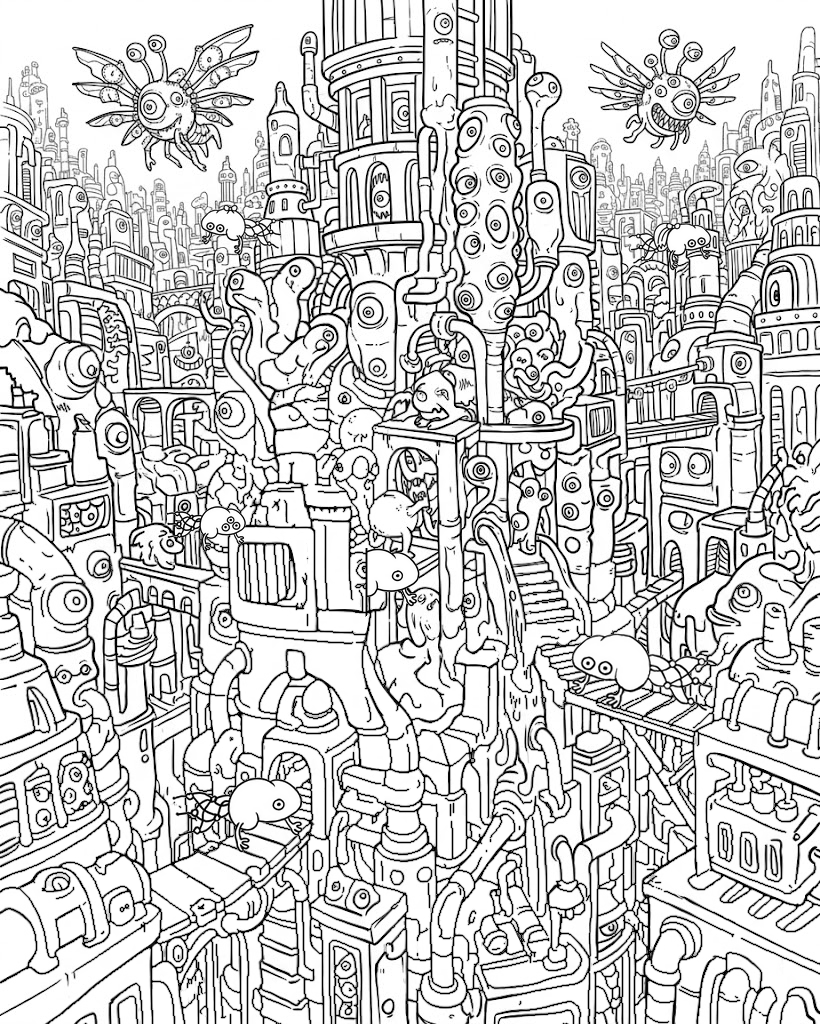
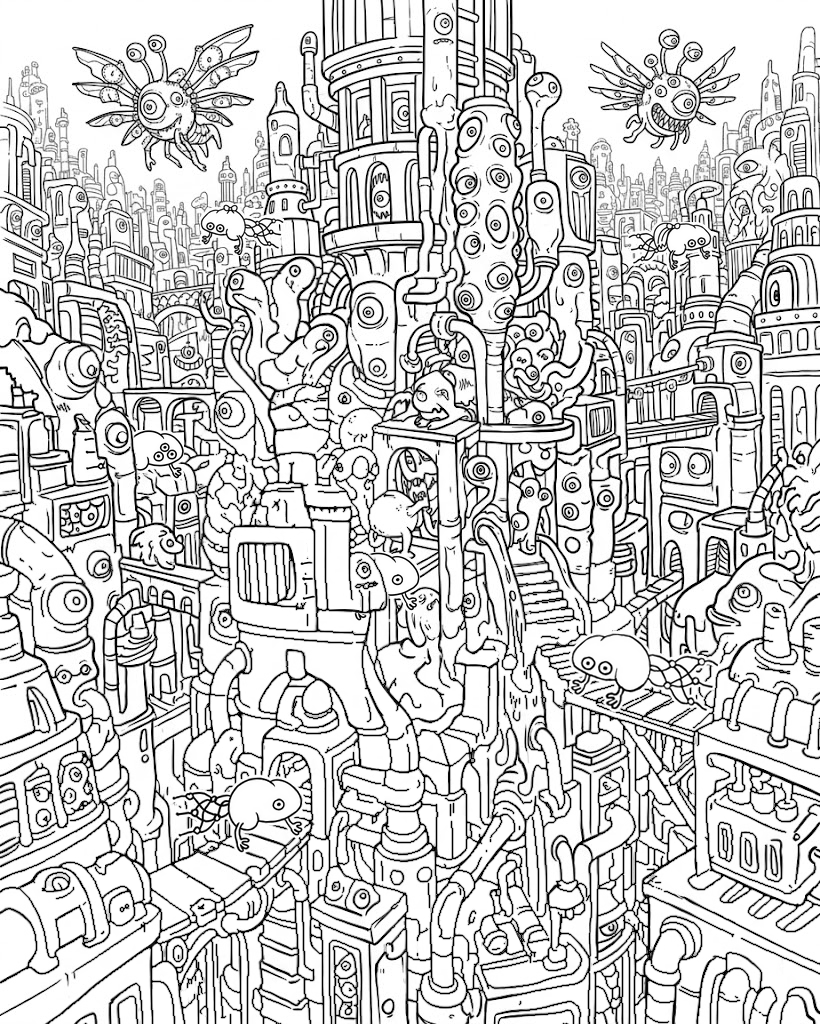
不自然にならないような間違い探し生成コードを作成

diff --git a/scripts/make_question.py b/scripts/make_question.py
@@ -1,0 +1,171 @@
+"""Compose "Where's Kaira-kun" question images: background + exactly one real Kaira + fakes.
+
+usage (from repo root):
+  uv run --no-project --with pillow --with numpy --with scipy --with scikit-image \
+      python scripts/make_question.py 1 2 ...      # no args = all questions
+
+Question n uses img/background/<(n-1) % 5 + 1>.png.
+Each item: (source, width, angle, flip, x, y, clip)
+  clip = None | ("behind", (sx, sy), ...)  hidden behind the background objects containing those
+                                            seed points (the objects' real outlines stay in front)
+The first item of every question must be the REAL one (img/kaira_kun/real).
+Rules: never use a crop of a real image as a fake; every fake's difference must stay
+visible after scaling/clipping (small ones: use eye-count / crown / sprout / ponytail).
+"""
+import sys
+from pathlib import Path
+
+import numpy as np
+from PIL import Image
+from scipy import ndimage as ndi
+from skimage.morphology import skeletonize
+
+IMG = Path(__file__).resolve().parent.parent / "img"
+R = IMG / "kaira_kun/real"
+F = IMG / "kaira_kun/fake"
+
+# per background: (stroke width measured on the background, blur to match its softness)
+BACKGROUNDS = {
+    1: (2.75, 0.6),
+    2: (1.85, 0.3),
+}
+
+QUESTIONS = {
+    1: [
+        (R / "1.png", 140, -6, False, 290, 290, None),  # REAL
+        (F / "1.jpg", 150, 10, True, 560, 610, None),  # 3 eyes
+        (F / "4.png", 130, -12, False, 40, 350, None),  # ribbon
+        (F / "8.png", 125, 8, True, 700, 330, None),  # lashes
+        (F / "5.png", 135, 0, False, 180, 830, None),  # ponytail
+        (F / "2.jpg", 140, -8, False, 820, 820, None),  # 1 eye
+    ],
+    2: [
+        (R / "2.png", 150, -4, False, 566, 628, None),  # REAL, on right bridge
+        (F / "1.jpg", 100, 0, True, 84, 430, ("behind", (120, 450))),  # 3 eyes, behind pillar
+        (F / "2.jpg", 130, 6, True, 170, 772, None),  # 1 eye, on left bridge
+        (F / "2.jpg", 120, 0, True, 300, 552, ("behind", (320, 560))),  # 1 eye, behind tower side panel
+        (F / "4.png", 84, 0, False, 200, 204, None),  # ribbon, far
+        (F / "5.png", 84, 0, True, 628, 222, None),  # ponytail, far
+    ],
+    6: [
+        (R / "2.png", 140, 8, True, 600, 410, None),  # REAL
+        (F / "10.png", 135, -10, False, 120, 560, None),  # horns
+        (F / "11.png", 135, 6, True, 420, 690, None),  # antenna
+        (F / "12.png", 130, 0, False, 770, 560, None),  # crown
+        (F / "13.png", 130, -6, True, 40, 850, None),  # sprout
+        (F / "1.jpg", 145, 4, False, 480, 870, None),  # 3 eyes
+        (F / "6.png", 135, 10, False, 640, 230, None),  # ahoge
+    ],
+    7: [
+        (R / "1.png", 130, 4, True, 175, 768, None),  # REAL, on left bridge
+        (F / "11.png", 145, -4, False, 566, 626, None),  # antenna, on right bridge
+        (F / "13.png", 100, 0, True, 0, 500, ("behind", (30, 560))),  # sprout, behind lower-left pipe
+        (F / "10.png", 120, 0, False, 176, 545, ("behind", (233, 533))),  # horns, behind tower box
+        (F / "12.png", 84, 0, False, 200, 204, None),  # crown, far
+        (F / "1.jpg", 84, 0, True, 628, 222, None),  # 3 eyes, far
+    ],
+}
+
+
+def line_width(g):
+    """Average stroke width: ink amount / skeleton length."""
+    return ((255 - g) / 255).sum() / max(1, skeletonize(g < 128).sum())
+
+
+def disk(r):
+    y, x = np.ogrid[-r : r + 1, -r : r + 1]
+    return x * x + y * y <= r * r
+
+
+def load(path):
+    g = np.asarray(Image.open(path).convert("L")).astype(np.float32)
+    ys, xs = np.where(g < 128)
+    return np.pad(g[ys.min() : ys.max() + 1, xs.min() : xs.max() + 1], 4, constant_values=255)
+
+
+def make(g, width, target, angle=0, flip=False, blur=0.0):
+    s = width / g.shape[1]
+    # adjust stroke width in source px so that after scaling it equals `target`
+    r = (line_width(g) - target / s) / 2
+    if r > 0.5:
+        g = ndi.grey_dilation(g, footprint=disk(round(r)))  # thin dark lines
+    elif r < -0.5:
+        g = ndi.grey_erosion(g, footprint=disk(round(-r)))  # thicken dark lines
+    lines = g < 128
+    closed = ndi.binary_closing(np.pad(lines, 12), structure=disk(6))[12:-12, 12:-12]
+    mask = ndi.binary_fill_holes(closed | lines)
+    im = Image.fromarray(g.astype(np.uint8))
+    mk = Image.fromarray((mask * 255).astype(np.uint8))
+    if flip:
+        im, mk = im.transpose(Image.FLIP_LEFT_RIGHT), mk.transpose(Image.FLIP_LEFT_RIGHT)
+    size = (width, max(1, round(g.shape[0] * s)))
+    im, mk = im.resize(size, Image.LANCZOS), mk.resize(size, Image.LANCZOS)
+    if angle:
+        im = im.rotate(angle, Image.BICUBIC, expand=True, fillcolor=255)
+        mk = mk.rotate(angle, Image.BICUBIC, expand=True, fillcolor=0)
+    im = np.asarray(im).astype(np.float32)
+    # thin white halo so protruding details (crown, antenna, hair) don't merge with the background
+    mk = ndi.grey_dilation(np.asarray(mk), footprint=disk(3))
+    if blur:
+        im = ndi.gaussian_filter(im, blur)
+    return im, mk.astype(np.float32) / 255
+
+
+def occluder(orig, seeds):
+    """Union of the background objects (closed regions) containing the seed points, incl. their outlines."""
+    lab, _ = ndi.label(orig >= 160)
+    occ = np.zeros(orig.shape, bool)
+    for sx, sy in seeds:
+        occ |= ndi.binary_fill_holes(lab == lab[sy, sx])
+    return ndi.binary_dilation(occ, structure=disk(3))
+
+
+def place(bg, dec, x, y, target, clip=None, orig=None):
+    im, mk = dec
+    h, w = im.shape
+    region = bg[y : y + h, x : x + w]
+    im, mk = im[: region.shape[0], : region.shape[1]], mk[: region.shape[0], : region.shape[1]]
+    edge = None
+    if clip and clip[0] == "behind":  # hidden behind real background objects; their own lines stay in front
+        occ = occluder(orig, clip[1:])[y : y + im.shape[0], x : x + im.shape[1]]
+        keep = 1 - ndi.gaussian_filter(occ.astype(np.float32), 0.7)
+        im = 255 - (255 - im) * keep
+        mk = mk * keep
+        clip = None
+    if clip:  # (old) behind a straight line: hide part of the decoy and draw an edge there
+        yy, xx = np.mgrid[y : y + im.shape[0], x : x + im.shape[1]].astype(np.float32)
+        if clip[0] == "above":
+            x1, y1, x2, y2 = clip[1:]
+            d = (y1 + (xx - x1) * (y2 - y1) / (x2 - x1)) - yy  # >0 above the line
+        else:
+            d = xx - clip[1]
+        keep = np.clip(d + 0.5, 0, 1)
+        near = ndi.binary_dilation(mk > 0.5, iterations=4)
+        edge = np.clip(target / 2 + 0.5 - np.abs(d), 0, 1) * near
+        im = 255 - (255 - im) * keep
+        mk = mk * keep
+    region[:] = region * (1 - mk) + 255 * mk  # white out behind the decoy
+    region[:] = np.minimum(region, im)
+    if edge is not None:
+        region[:] = region * (1 - edge)
+
+
+def build(n):
+    items = QUESTIONS[n]
+    assert items[0][0].parent == R and all(it[0].parent == F for it in items[1:]), "exactly one real"
+    bg_id = (n - 1) % 5 + 1
+    target, blur = BACKGROUNDS[bg_id]
+    gray = np.asarray(Image.open(IMG / f"background/{bg_id}.png").convert("L")).astype(np.float32)
+    orig = gray.copy()
+    for src, w, a, fl, x, y, clip in items:
+        t = target * (0.7 if w < 100 else 1)  # distant (small) ones get thinner lines
+        place(gray, make(load(src), w, t, a, fl, blur), x, y, t, clip, orig)
+    out = np.clip(gray, 0, 255).astype(np.uint8)
+    (IMG / "question").mkdir(exist_ok=True)
+    Image.fromarray(np.stack([out] * 3, axis=2)).save(IMG / f"question/{n}.png")
+    print(f"question {n}: background {bg_id}, real {items[0][0].name} at {items[0][4:6]}")
+
+
+if __name__ == "__main__":
+    for n in map(int, sys.argv[1:]) if len(sys.argv) > 1 else QUESTIONS:
+        build(n)
